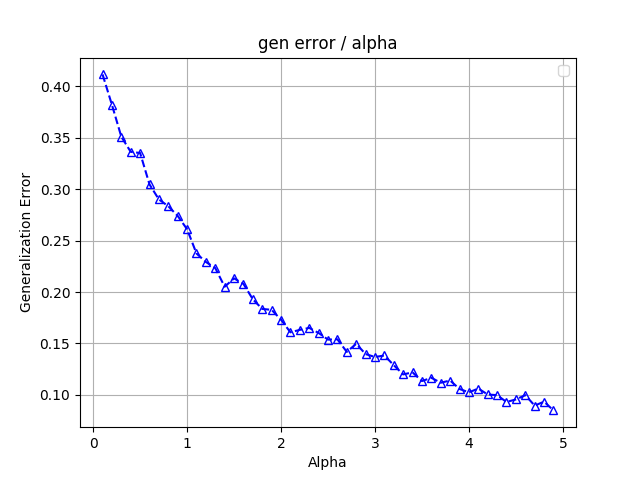
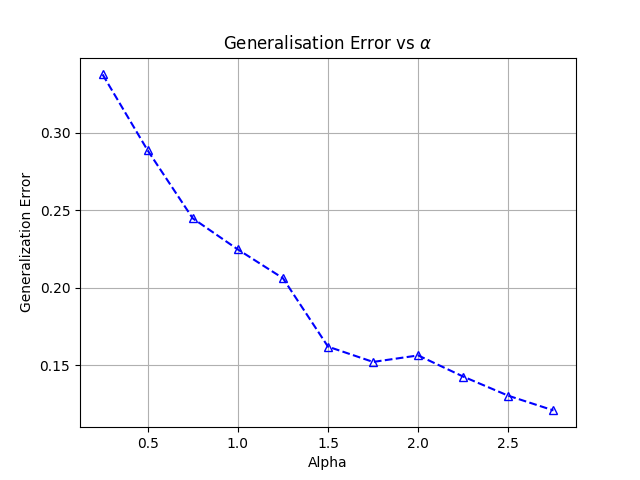
Updated a2_minover and outputs

diff --git a/a2_minover/perceptron_minover.py b/a2_minover/perceptron_minover.py
@@ -9,7 +9,7 @@ class Perceptron:
     def __init__(self, epochs=250, c = 0):
         self.epochs = epochs
         self.c = c
-        self.threshold = pi/1000
+        self.threshold = pi/100
     
     def generate_teacher_vec(self, n_features):
         w_str = np.zeros(n_features)
@@ -25,17 +25,7 @@ class Perceptron:
                 X[i,j] = random.gauss(0,1)
             y[i] = np.sign(np.dot(w_str, X[i]))
             # print('X:{}\ny:{}\nw_str:{}'.format(X[i], y[i], w_str))
-        return X, y
-    
-    def generate_noisy_data(self, n_features, p_data, w_str, lambda_val):
-        X = np.zeros((p_data, n_features))
-        y = np.zeros(p_data)
-        for i in range(p_data):
-            for j in range(n_features):
-                X[i,j] = random.gauss(0,1)
-            y[i] = np.sign(np.dot(w_str, X[i])) if random.uniform(0, 1)>lambda_val else -1 * np.sign(np.dot(w_str, X[i]))
-        return X, y
-    
+        return X, y   
     
     def get_kappa(self, weight, X, y):
         kappa = np.zeros(X.shape[0])
@@ -44,33 +34,6 @@ class Perceptron:
         # print("Kappa: {}".format(kappa))
         return kappa
 
-    def rosenblatt_fit(self, X, y):
-        # Defining a weight vector, initialised to 0. shape: numebr of features 
-        wt = np.zeros(X.shape[1])
-
-        # Defining the training strategy
-        acc = []
-        hist_emb_strength = np.zeros(y.shape)
-        for epoch in range(self.epochs):
-            n_correct = 0
-            for s_idx, sample in enumerate(X):
-                pred_corr = self.predict_correct(sample, wt, y[s_idx])
-                n_correct += pred_corr
-                if not pred_corr:
-                    del_wt = (1/X.shape[1])*y[s_idx]*sample
-                    wt = np.add(wt, del_wt)
-                    hist_emb_strength[s_idx] += 1
-            acc.append(n_correct / X.shape[0])
-            if acc[-1] == 1:
-                return wt
-        return wt
-    
-    def predict_correct(self, x, wt, y):
-        E_mu = np.dot(x, np.transpose(wt))*y
-        if E_mu > self.c:
-            return 1
-        else:
-            return 0
 
     def minover_fit(self, X, y):
         stop_fit = False
@@ -97,7 +60,7 @@ class Perceptron:
             w_old = w
             for i in range(X.shape[0]):
                 E = np.dot(w, X[i]) * y[i]
-                emb_str_update = max(0, emb_str[i] + (1 - E))
+                emb_str_update = max(0, emb_str[i] + 0.001 * (1 - E))
                 w = w + ((emb_str_update - emb_str[i]) * X[i])/(X.shape[1])
                 emb_str[i] = emb_str_update
             w_angle = acos(min(np.dot(w,w_old)/(np.linalg.norm(w)*np.linalg.norm(w_old)), 1))
@@ -111,64 +74,56 @@ if __name__ == "__main__":
     file_path = os.getcwd()
     print(file_path)
     A_range = np.arange(0.25, 3, 0.25)
-    N = 5
+    N = 4
     lambda_val = 0.25
     
 
     # Dataframe to store the outputs of the perceptron
     minover_data = pd.DataFrame(columns=["Alpha", "Generalization_Error", "Min_Kappa"])
     adatron_minover_compare = pd.DataFrame(columns=["Alpha", "Step_Count_Minover", "Step_Count_Adatron"])
-    tri_model_compare = pd.DataFrame(columns=["Alpha", "G_Err_Rosenblatt", "G_Err_MinOver", "G_Err_AdaTron"])
+    bi_model_compare = pd.DataFrame(columns=["Alpha", "G_Err_MinOver", "G_Err_AdaTron"])
 
-    # Noisy data tri model comparison
-    noisy_comp = pd.DataFrame(columns=["Alpha", "G_Err_Rosenblatt", "G_Err_MinOver", "G_Err_AdaTron"])
-
-
-    model = Perceptron(500)
-
+    model = Perceptron()
+    max_iter = 50
     # Simulating the perceptron for multiple values of N and alpha
     for a in A_range:
         p = np.round(int(N*a))
         print("p_val: {}".format(p))
-        minover_err = np.zeros(50)
-        rosenblatt_err = np.zeros(50)
-        adatron_err = np.zeros(50)
-        noisy_minover_err = np.zeros(50)
-        noisy_rosenblatt_err = np.zeros(50)
-        noisy_adatron_err = np.zeros(50)
-        k_min = np.zeros(50)
-        for i in range(0,50):
+        minover_err = np.zeros(max_iter)
+        adatron_err = np.zeros(max_iter)
+        k_min = np.zeros(max_iter)
+        minover_step = 0
+        adatron_step = 0
+
+        for i in range(0,max_iter):
+            print("iter: {}".format(i))
             w_star = model.generate_teacher_vec(N)
             X, y = model.generate_data(N, p, w_star)
-            X_noisy, y_noisy = model.generate_noisy_data(N, p, w_star, lambda_val)
+
             # MinOver Fit
             w_fit_minover, conv_step_minover = model.minover_fit(X, y)
-            w_noisy_minover,noisy_step_minover = model.minover_fit(X_noisy, y_noisy)
+            minover_step += conv_step_minover
             # AdaTron Fit
             w_fit_adatron, conv_step_adatron = model.adatron_fit(X, y)
-            w_noisy_adatron,noisy_step_adatron = model.adatron_fit(X_noisy, y_noisy)
-            # Rosenblatt Fit
-            w_fit_rosenblatt = model.rosenblatt_fit(X, y)
-            w_noisy_rosenblatt = model.rosenblatt_fit(X_noisy, y_noisy)
+            adatron_step += conv_step_adatron
+
             # MinOver error
             minover_err[i] = acos(min(np.dot(w_fit_minover,w_star)/(np.linalg.norm(w_fit_minover)*np.linalg.norm(w_star)), 1))/pi
-            noisy_minover_err[i] = acos(min(np.dot(w_noisy_minover,w_star)/(np.linalg.norm(w_noisy_minover)*np.linalg.norm(w_star)), 1))/pi
-            # Rosenblatt error
-            rosenblatt_err[i] = acos(min(np.dot(w_fit_rosenblatt,w_star)/(np.linalg.norm(w_fit_rosenblatt)*np.linalg.norm(w_star)), 1))/pi
-            noisy_rosenblatt_err[i] = acos(min(np.dot(w_noisy_rosenblatt,w_star)/(np.linalg.norm(w_noisy_rosenblatt)*np.linalg.norm(w_star)), 1))/pi
+
             # AdaTron error
             adatron_err[i] = acos(min(np.dot(w_fit_adatron,w_star)/(np.linalg.norm(w_fit_adatron)*np.linalg.norm(w_star)), 1))/pi
-            noisy_adatron_err[i] = acos(min(np.dot(w_noisy_adatron,w_star)/(np.linalg.norm(w_noisy_adatron)*np.linalg.norm(w_star)), 1))/pi
+
             # MinOver kappa min
-            k_min[i] = np.argmin(model.get_kappa(w_fit_minover, X, y))
-        adatron_minover_compare = adatron_minover_compare.append({"Alpha": np.round(a), "Step_Count_Minover": conv_step_minover, "Step_Count_Adatron": conv_step_adatron}, ignore_index=True)
-        tri_model_compare = tri_model_compare.append({"Alpha": a, " G_Err_Rosenblatt": np.mean(rosenblatt_err), "G_Err_MinOver": np.mean(minover_err), "G_Err_AdaTron": np.mean(adatron_err)})
+            k_min[i] = min(model.get_kappa(w_fit_minover, X, y))
+
+        adatron_minover_compare = adatron_minover_compare.append({"Alpha": np.round(a), "Step_Count_Minover": minover_step/max_iter, "Step_Count_Adatron": adatron_step/max_iter}, ignore_index=True)
+        bi_model_compare = bi_model_compare.append({"Alpha": a, "G_Err_MinOver": np.mean(minover_err), "G_Err_AdaTron": np.mean(adatron_err)}, ignore_index=True)
         minover_data = minover_data.append({"Alpha": np.round(a), "Generalization_Error": np.mean(minover_err), "Min_Kappa": np.mean(k_min)}, ignore_index=True)
-        noisy_comp = noisy_comp.append({"Alpha": a, "G_Err_Rosenblatt": np.mean(noisy_rosenblatt_err), "G_Err_MinOver": np.mean(noisy_minover_err), "G_Err_AdaTron": np.mean(noisy_adatron_err)}, ignore_index=True)
+
     minover_data.to_csv(os.path.join(file_path, "output/minover_data_alpha.csv"))
     adatron_minover_compare.to_csv(os.path.join(file_path, "output/Ada_Min_compare.csv"))
-    tri_model_compare.to_csv(os.path.join(file_path, "output/tri_model_compare.csv"))
-    noisy_comp.to_csv(os.path.join(file_path, "output/noisy_ge_compare.csv"))
+    bi_model_compare.to_csv(os.path.join(file_path, "output/bi_model_compare.csv"))
+
 
        
     # Defining a plotting function for plotting alpha versus Probability of linear separability.
@@ -179,7 +134,6 @@ if __name__ == "__main__":
     ax.plot(x,y1,c='b',marker="^",ls='--',fillstyle='none')
     ax.set(xlabel='Alpha', ylabel='Generalization Error', title=r'Generalisation Error vs $\alpha$')
     ax.grid()
-    plt.legend(loc=1)
 
     fig.savefig(os.path.join(file_path, "output/a_vs_GE.png"))
     # plt.show()
@@ -192,7 +146,6 @@ if __name__ == "__main__":
     ax.plot(x,y2,c='r',marker="^",ls='--',fillstyle='none')
     ax.set(xlabel=r'$\alpha$', ylabel=r'$\kappa(t_{max})$', title=r'$\kappa(t_{max})$ vs $\alpha$')
     ax.grid()
-    plt.legend(loc=1)
 
     fig.savefig(os.path.join(file_path, "output/a_vs_min_kap.png"))
     # plt.show()
@@ -215,33 +168,13 @@ if __name__ == "__main__":
     # Tri model generalisation error comparison
     plt.clf()
     x = A_range
-    y5 = tri_model_compare["G_Err_Rosenblatt"]
-    y6 = tri_model_compare["G_Err_MinOver"]
-    y7 = tri_model_compare["G_Err_AdaTron"]
+    y6 = bi_model_compare["G_Err_MinOver"]
+    y7 = bi_model_compare["G_Err_AdaTron"]
     fig, ax = plt.subplots()
-    ax.plot(x,y5,c='b',marker=(8,2,0),ls='-.',label='Rosenblatt')
     ax.plot(x,y6,c='g',marker=(8,2,0),ls='--',label='MinOver')
     ax.plot(x,y7,c='c',marker=(8,2,0),ls=':',label='AdaTron')
     ax.set(xlabel=r'$\alpha$', ylabel='Generalisation Error', title=r'Generalisation Error vs $\alpha$')
     ax.grid()
     plt.legend(loc=1)
 
-    fig.savefig(os.path.join(file_path, "output/tri_model_ge_compare.png"))
-
-    # Tri model generalisation error comparison: Noisy data
-    plt.clf()
-    x = A_range
-    y8 = noisy_comp["G_Err_Rosenblatt"]
-    y9 = noisy_comp["G_Err_MinOver"]
-    y10 = noisy_comp["G_Err_AdaTron"]
-    fig, ax = plt.subplots()
-    ax.plot(x,y8,c='b',marker=(8,2,0),ls='-.',label='Rosenblatt')
-    ax.plot(x,y9,c='g',marker=(8,2,0),ls='--',label='MinOver')
-    ax.plot(x,y10,c='c',marker=(8,2,0),ls=':',label='AdaTron')
-    ax.set(xlabel=r'$\alpha$', ylabel='Generalisation Error', title=r'Generalisation Error vs $\alpha$ \n $\lambda=0.25$')
-    ax.grid()
-    plt.legend(loc=1)
-
-    fig.savefig(os.path.join(file_path, "output/tri_noisy_ge_compare.png"))
-
-    
+    fig.savefig(os.path.join(file_path, "output/bi_model_ge_compare.png"))
